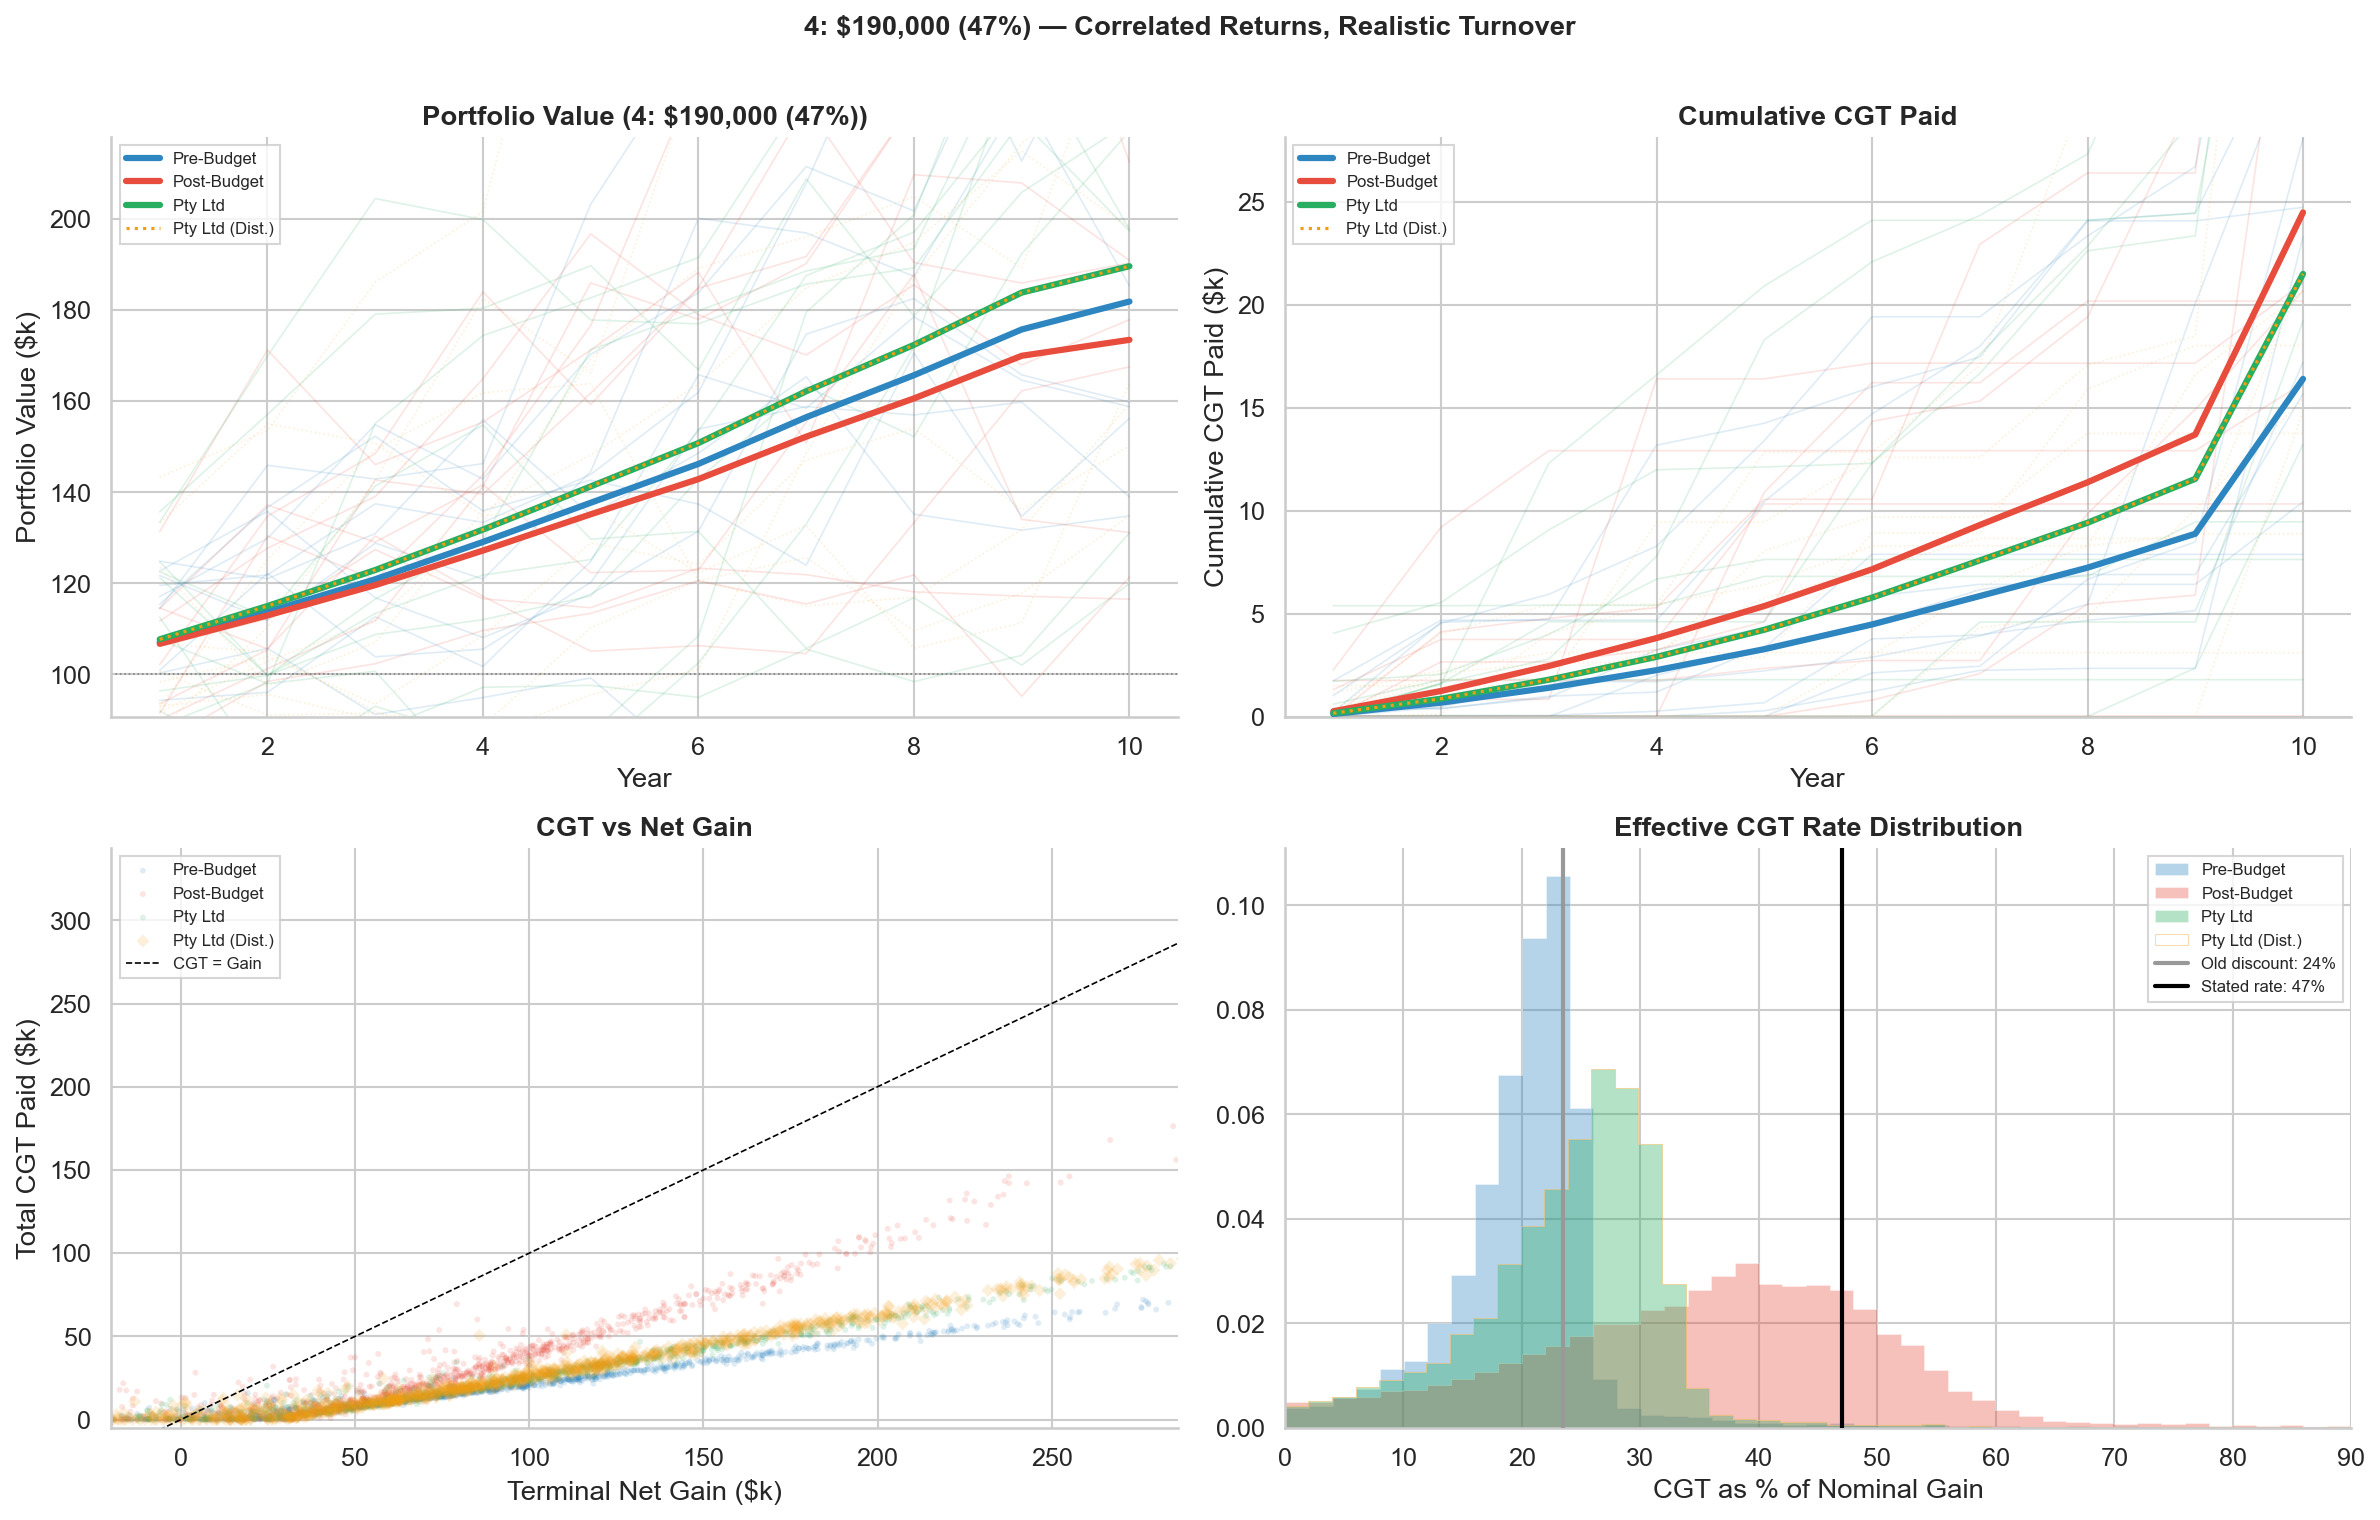
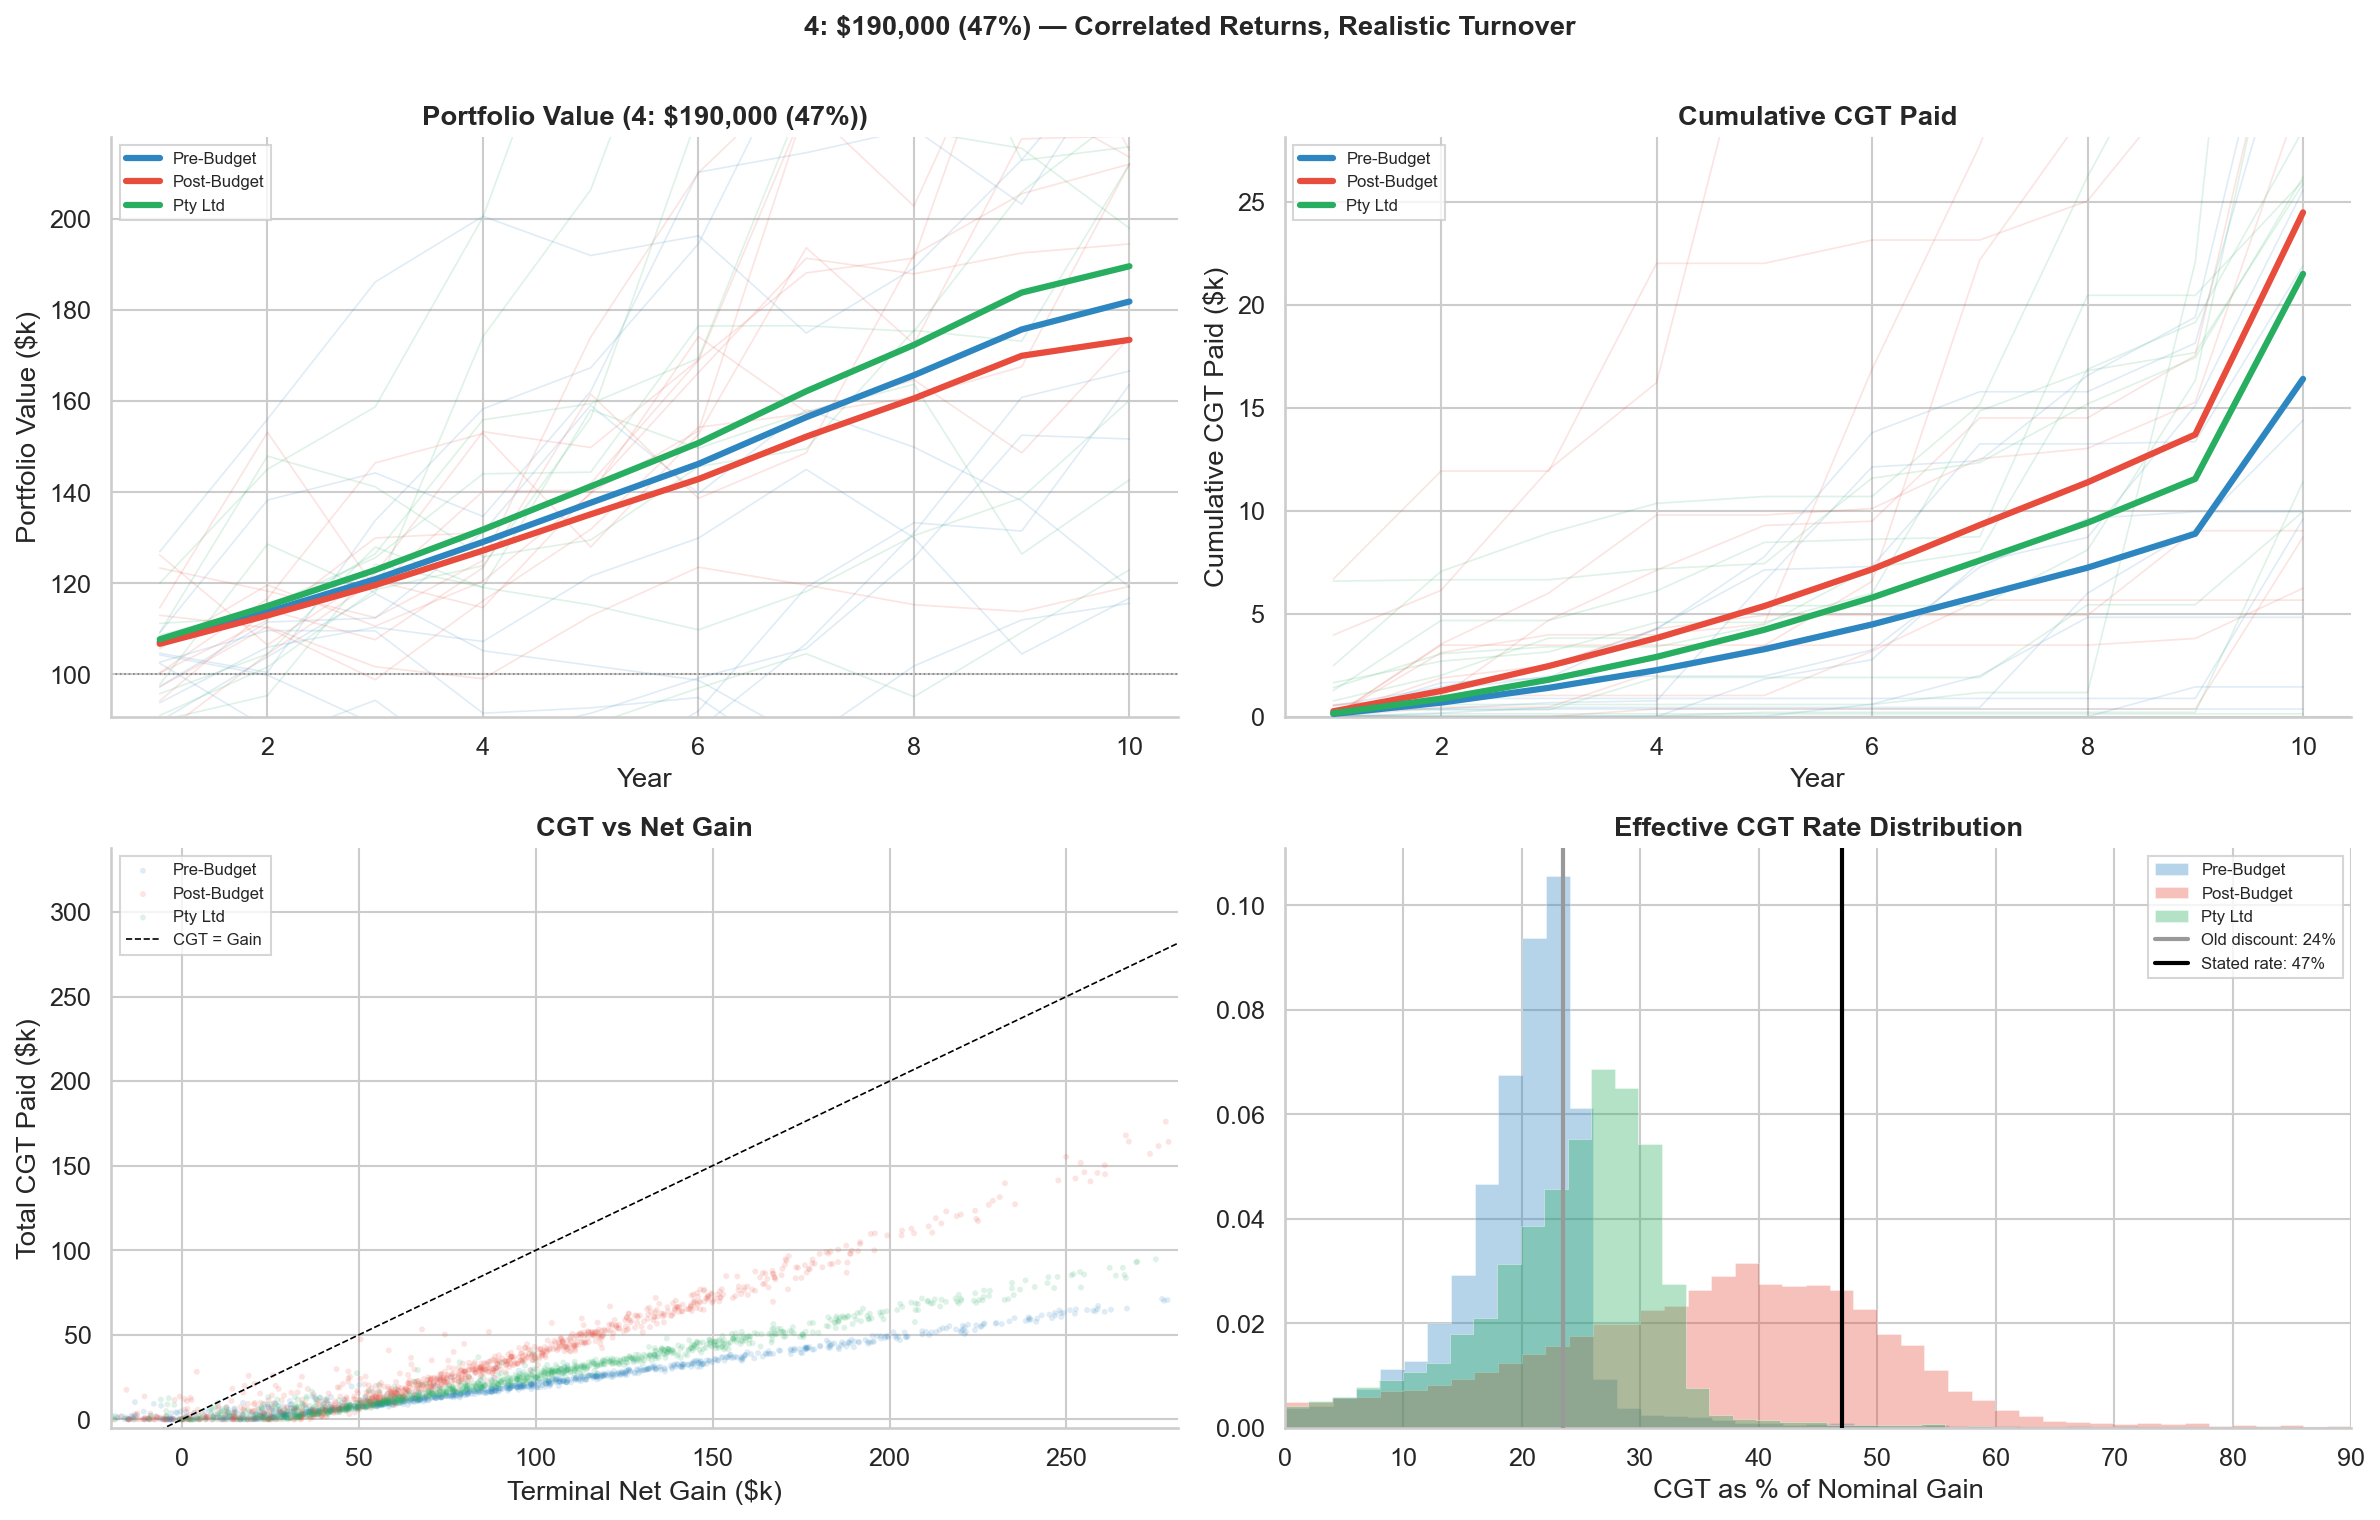
Merge: Pty Ltd = going concern + multi-year distribution at 32%

diff --git a/scenarios.py b/scenarios.py
@@ -59,10 +59,10 @@ CPI       = 0.025
 CORP_RATE = 0.30
 RHO       = 0.35
 
-# Pty Ltd (Dist.): profits drawn down over multiple retirement years, keeping
-# total taxable income under ~$135k. Effective individual rate ≈ 32%
-# (30% base + 2% Medicare). Franking credits offset most of this.
-# Net top-up: grossed_up × (0.32 − 0.30) = grossed_up × 0.02.
+# Pty Ltd: 30% corp rate during accumulation. At retirement, profits are drawn
+# down over multiple years keeping total income under ~$135k. Effective individual
+# rate on distribution ≈ 32% (30% bracket + 2% Medicare). Franking credits offset
+# most, leaving a ~2% net top-up.
 R_DIST = 0.32
 
 # Dividend franking: most ASX dividends are fully franked at 30%
@@ -100,8 +100,8 @@ ARCHETYPES = {
     '3: $135,000 (32%)': {'mr': 0.32},
     '4: $190,000 (47%)': {'mr': 0.47},
 }
-SCENARIOS = ['Pre-Budget', 'Post-Budget', 'Pty Ltd', 'Pty Ltd (Dist.)']
-COLS = ['#2e86c1', '#e74c3c', '#27ae60', '#f39c12']
+SCENARIOS = ['Pre-Budget', 'Post-Budget', 'Pty Ltd']
+COLS = ['#2e86c1', '#e74c3c', '#27ae60']
 
 # %% [markdown]
 # ## Pre-generate shared data
@@ -190,16 +190,13 @@ def simulate(mr, scenario):
 
         if scenario == 'Pty Ltd':
             div_tax = np.maximum(grossed_up * CORP_RATE - frank_credit, 0) + unfranked_d * CORP_RATE
-        elif scenario == 'Pty Ltd (Dist.)':
-            div_tax = np.maximum(grossed_up * CORP_RATE - frank_credit, 0) + unfranked_d * CORP_RATE
         else:
             div_tax = grossed_up * mr - frank_credit + unfranked_d * mr
         after_tax_div = dividends - div_tax
         values     += after_tax_div
         cost_bases += after_tax_div
         cum_div_tax  += div_tax.sum(axis=1)
-        # Pty Ltd entities: track franking credits received on portfolio dividends
-        if scenario == 'Pty Ltd' or scenario == 'Pty Ltd (Dist.)':
+        if scenario == 'Pty Ltd':
             cum_franking += frank_credit.sum(axis=1) + div_tax.sum(axis=1)
 
         if is_final:
@@ -257,7 +254,7 @@ def simulate(mr, scenario):
                     cost_bases[sim, mask] = values[sim, mask]
                     cost_years[sim, mask] = yr
 
-            elif scenario == 'Pty Ltd' or scenario == 'Pty Ltd (Dist.)':
+            elif scenario == 'Pty Ltd':
                 net = g.sum() - carry_fwd[sim]
                 if net > 0:
                     cum_taxable[sim]     += net
@@ -279,13 +276,12 @@ def simulate(mr, scenario):
 
     total_pf = values.sum(axis=1)
 
-    if scenario == 'Pty Ltd (Dist.)':
+    if scenario == 'Pty Ltd':
         roc       = np.minimum(total_pf, INITIAL)
         dividend  = total_pf - roc
         max_frank = dividend * CORP_RATE / (1 - CORP_RATE)
         franking  = np.minimum(cum_franking, max_frank)
         grossed_up = dividend + franking
-        # Distributed over multiple years under ~$135k threshold → 30% effective
         ind_tax   = grossed_up * R_DIST
         net_tax   = ind_tax - franking
         final     = roc + dividend - net_tax
@@ -389,8 +385,8 @@ print(summary.to_string(index=False))
 r30_saved = _save_globals()
 _regenerate_shared(30, S_SIMS)
 
-print(f'\n{"Archetype":>22s} {"Pre-Budget":>12s} {"Post-Budget":>12s} {"Pty Ltd":>12s} {"Pty (Dist)":>12s}')
-print('-' * 76)
+print(f'\n{"Archetype":>22s} {"Pre-Budget":>12s} {"Post-Budget":>12s} {"Pty Ltd":>12s}')
+print('-' * 64)
 for arch_label, arch in ARCHETYPES.items():
     mr = arch['mr']
     vals = []
@@ -405,8 +401,8 @@ _restore_globals(r30_saved)
 # ## 2. Scenario Comparison (10yr)
 
 # %%
-print(f'\n{"Archetype":>22s} {"Pre-Budget":>12s} {"Post-Budget":>12s} {"Pty Ltd":>12s} {"Pty (Dist)":>12s}')
-print('-' * 76)
+print(f'\n{"Archetype":>22s} {"Pre-Budget":>12s} {"Post-Budget":>12s} {"Pty Ltd":>12s}')
+print('-' * 64)
 for arch_label, arch in ARCHETYPES.items():
     vals = []
     for sc in SCENARIOS:
@@ -431,53 +427,40 @@ for bi, mr_label in enumerate(DRILL_BRACKETS):
     ax = axes[0, 0]
     for i, sc in enumerate(SCENARIOS):
         m = np.median(pf_hist[sc], axis=0) / 1000
-        ls = ':' if 'Dist' in sc else '-'
-        lw = 1.5 if 'Dist' in sc else 3
-        ax.plot(years_arr, m, color=COLS[i], lw=lw, ls=ls, label=sc, zorder=10)
+        ax.plot(years_arr, m, color=COLS[i], lw=3, label=sc, zorder=10)
         picks = rng.choice(N_SIMS, size=10, replace=False)
         for j in picks:
             ax.plot(years_arr, pf_hist[sc][j] / 1000,
-                    color=COLS[i], alpha=0.15, lw=0.8, ls=ls)
+                    color=COLS[i], alpha=0.15, lw=0.8)
     ax.axhline(INITIAL / 1000, color='gray', lw=0.8, ls=':')
-    # Clamp y-axis to median range, ignoring extreme Monte Carlo traces
     all_med = np.concatenate([np.median(pf_hist[sc], axis=0) for sc in SCENARIOS]) / 1000
     ax.set_ylim(all_med.min() * 0.85, all_med.max() * 1.15)
     ax.set_ylabel('Portfolio Value ($k)'); ax.set_xlabel('Year')
     ax.set_title(f'Portfolio Value ({mr_label})', fontweight='bold')
     ax.legend(fontsize=8)
 
-    # Top-right: cumulative CGT paths
     ax = axes[0, 1]
     for i, sc in enumerate(SCENARIOS):
         m = np.median(cgt_hist[sc], axis=0) / 1000
-        ls = ':' if 'Dist' in sc else '-'
-        lw = 1.5 if 'Dist' in sc else 3
-        ax.plot(years_arr, m, color=COLS[i], lw=lw, ls=ls, label=sc, zorder=10)
+        ax.plot(years_arr, m, color=COLS[i], lw=3, label=sc, zorder=10)
         picks = rng.choice(N_SIMS, size=10, replace=False)
         for j in picks:
             ax.plot(years_arr, cgt_hist[sc][j] / 1000,
-                    color=COLS[i], alpha=0.15, lw=0.8, ls=ls)
+                    color=COLS[i], alpha=0.15, lw=0.8)
     all_cgt = np.concatenate([np.median(cgt_hist[sc], axis=0) for sc in SCENARIOS]) / 1000
     ax.set_ylim(0, all_cgt.max() * 1.15)
     ax.set_ylabel('Cumulative CGT Paid ($k)'); ax.set_xlabel('Year')
     ax.set_title('Cumulative CGT Paid', fontweight='bold')
     ax.legend(fontsize=8)
 
-    # Bottom-left: CGT vs terminal gain
     ax = axes[1, 0]
     for i, sc in enumerate(SCENARIOS):
         wealth, _, pf, cgt, _, _, _, _, _ = all_results[mr_label][sc]
-        if 'Dist' in sc:
-            net_gain = wealth - INITIAL  # post-franking: individual terminal wealth
-        else:
-            net_gain = pf - INITIAL      # portfolio value
+        net_gain = pf - INITIAL if sc != 'Pty Ltd' else wealth - INITIAL
         n_show = min(1000, N_SIMS)
         idx = rng.choice(N_SIMS, size=n_show, replace=False)
-        marker = 'D' if 'Dist' in sc else 'o'
-        s = 20 if 'Dist' in sc else 8
         ax.scatter(net_gain[idx] / 1000, cgt[idx] / 1000,
-                   alpha=0.15, s=s, color=COLS[i], marker=marker,
-                   label=sc, edgecolors='none')
+                   alpha=0.15, s=8, color=COLS[i], label=sc, edgecolors='none')
     all_net = np.concatenate([all_results[mr_label][sc][2] - INITIAL for sc in SCENARIOS])
     xlim = np.percentile(all_net / 1000, 98)
     ax.set_xlim(-20, xlim); ax.set_ylim(-5, xlim * 1.2)
@@ -486,7 +469,6 @@ for bi, mr_label in enumerate(DRILL_BRACKETS):
     ax.set_title('CGT vs Net Gain', fontweight='bold')
     ax.legend(fontsize=8, loc='upper left')
 
-    # Bottom-right: effective CGT rate histogram
     ax = axes[1, 1]
     ref_rate = REF_RATES[bi]
     for i, sc in enumerate(SCENARIOS):
@@ -495,9 +477,8 @@ for bi, mr_label in enumerate(DRILL_BRACKETS):
         nom_gain = np.maximum(pf - INITIAL, 1e-9)
         eff_cgt = cgt / nom_gain
         mask = (eff_cgt > 0) & (eff_cgt < 1.0)
-        ht = 'step' if 'Dist' in sc else 'stepfilled'
         ax.hist(eff_cgt[mask] * 100, bins=50, color=COLS[i], alpha=0.35,
-                label=sc, density=True, histtype=ht, linewidth=0.5)
+                label=sc, density=True, histtype='stepfilled', linewidth=0.5)
     ax.axvline(ref_rate * 0.5, color='#999999', lw=2, ls='-', zorder=10,
                label=f'Old discount: {ref_rate*0.5:.0f}%')
     ax.axvline(ref_rate, color='black', lw=2, ls='-', zorder=10,